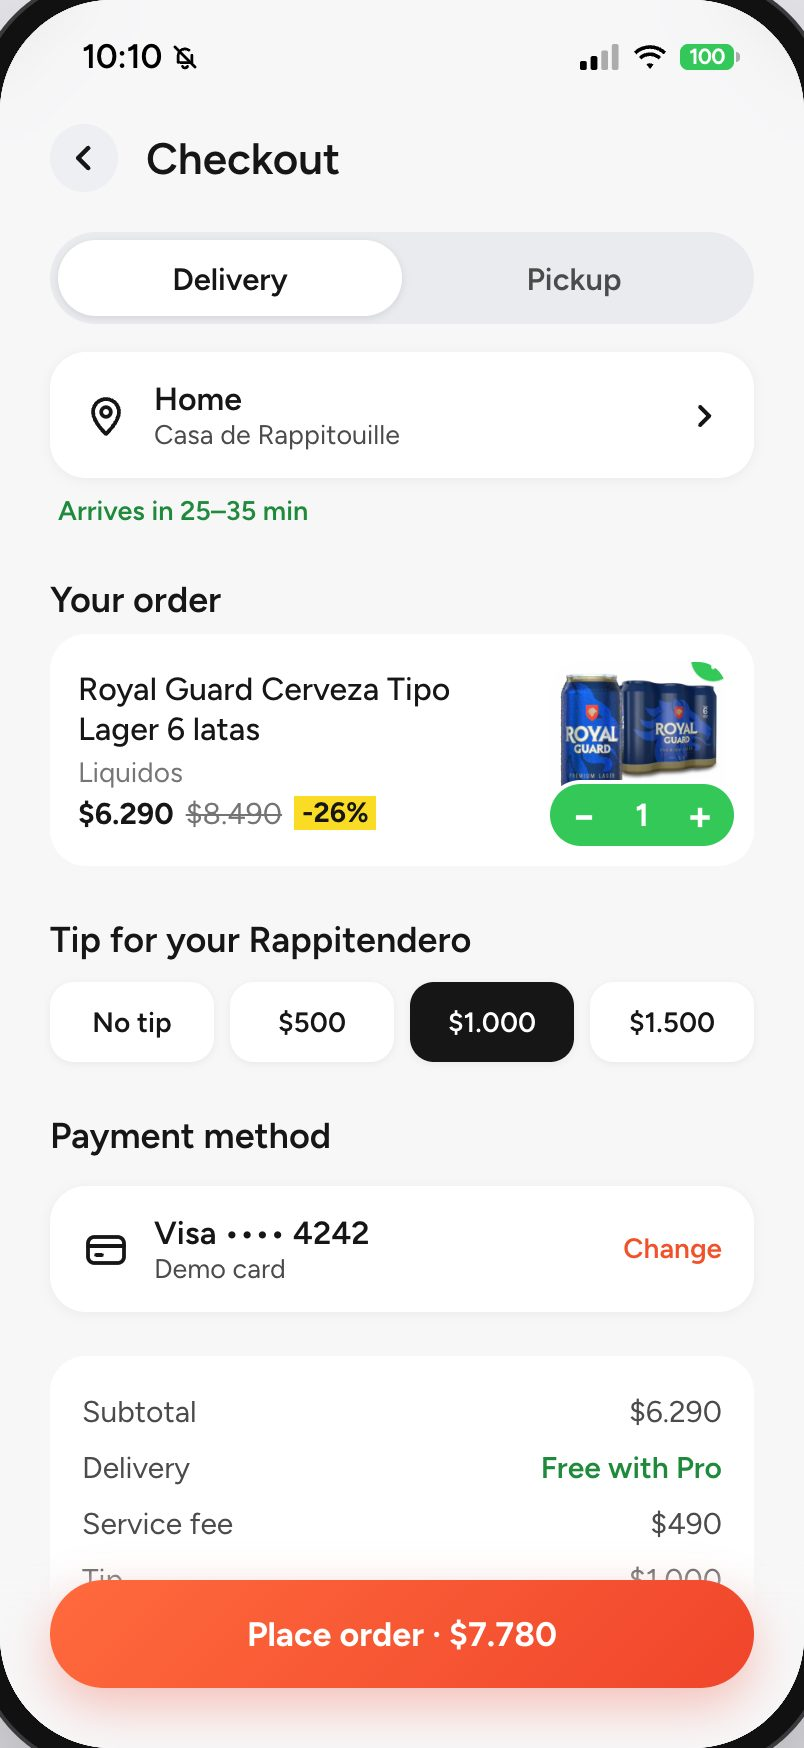
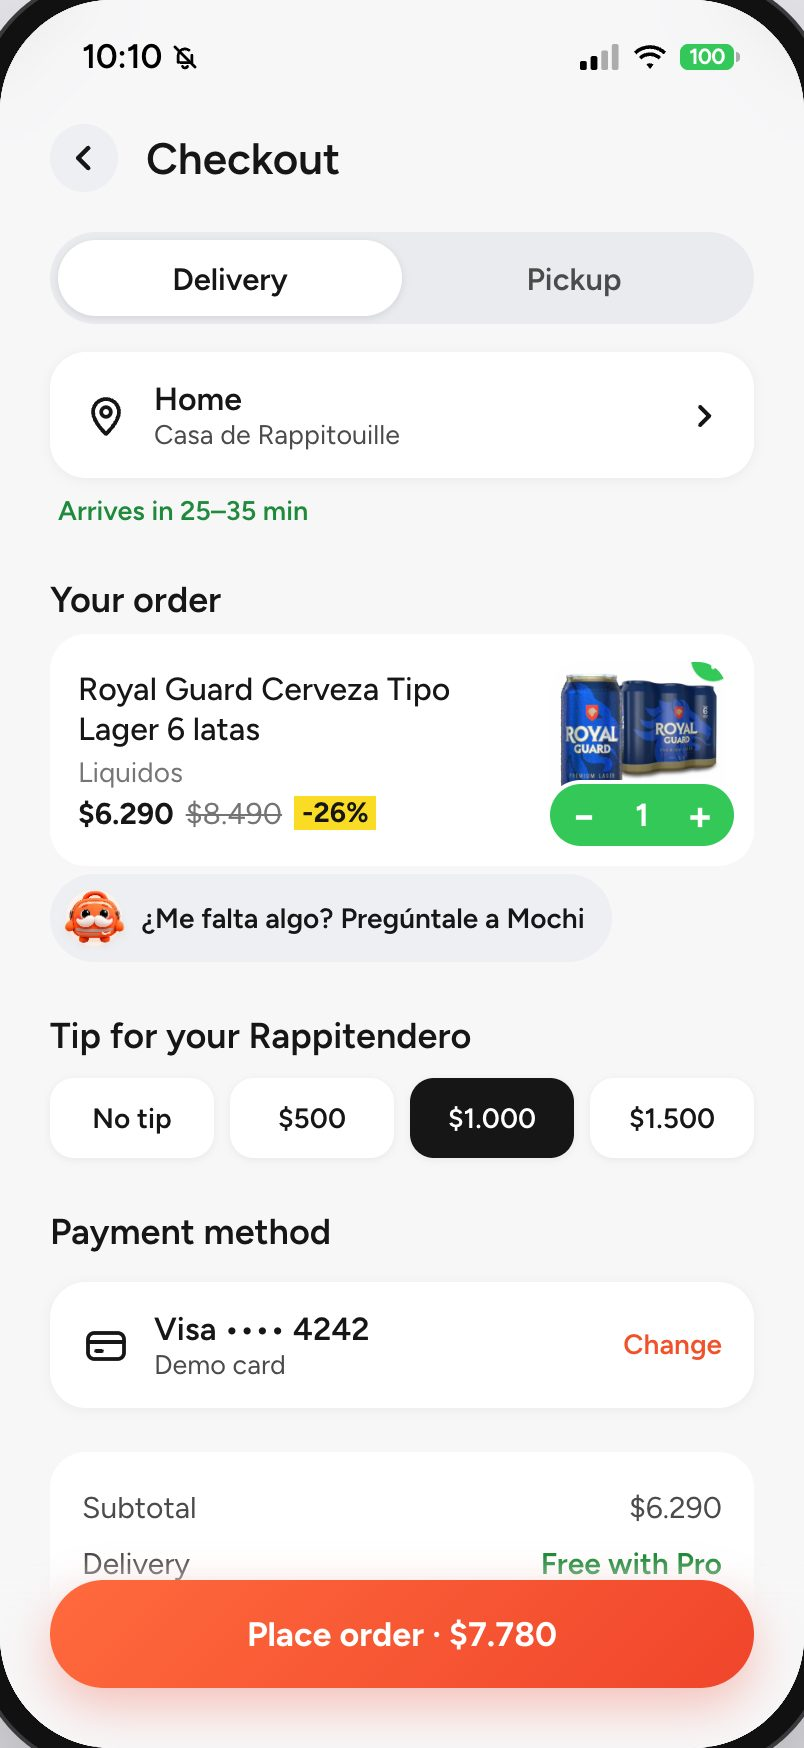
feat: «¿Me falta algo?» en el checkout: Mochi sugiere una cosa de otra vertical, solo si se pide

diff --git a/prototipo-app/src/screens/checkout/CheckoutSuggestion.jsx b/prototipo-app/src/screens/checkout/CheckoutSuggestion.jsx
@@ -1,0 +1,106 @@
+import { useState } from 'react'
+import { conceptOf } from '../../api/orders'
+import { firstShowing } from '../../api/useRemoteForYou'
+import { NEVER_SUGGESTED, TAGS, productTags } from '../../assistant/tags'
+import Mascot from '../../components/assistant/Mascot'
+import { useAddToCart } from '../../hooks/useAddToCart'
+import { lineKey, useCart } from '../../state/CartContext'
+import { useDemo } from '../../state/DemoContext'
+import { useEvents } from '../../state/EventsContext'
+import { useProfile } from '../../state/ProfileContext'
+import { discoveryFor } from '../home/live/script'
+
+/**
+ * Lo que combina con el carro, de otra vertical: el primer tema de una línea que tenga complemento (como la Home al
+ * volver) y su primer producto que no esté ya en el carro. Nada sensible (NEVER_SUGGESTED, y discoveryFor lo cuida).
+ */
+export function checkoutSuggestion(items) {
+  const inCart = new Set(items.map(({ product }) => lineKey(product)))
+  for (const { product } of items) {
+    for (const tag of productTags(product)) {
+      if (!TAGS[tag] || NEVER_SUGGESTED.has(tag)) continue
+      const found = discoveryFor({ tag, vertical: product.vertical })
+      const pick = found?.items.find((item) => item.kind === 'product' && !inCart.has(lineKey(item.product)))
+      if (pick)
+        return {
+          from: { label: TAGS[tag].label, emoji: TAGS[tag].emoji },
+          to: { label: found.label, emoji: found.emoji, vertical: found.vertical, verticalName: found.verticalName },
+          product: pick.product,
+        }
+    }
+  }
+  return null
+}
+
+/**
+ * «¿Me falta algo?» en el checkout (prototipo final): solo si la persona lo pide, Mochi sugiere UNA cosa de otra
+ * vertical, con su razón, «Agregar» y «Deshacer». Nada aparece por su cuenta.
+ */
+export default function CheckoutSuggestion() {
+  const demo = useDemo()
+  const cart = useCart()
+  const profile = useProfile()
+  const events = useEvents()
+  const { add, remove } = useAddToCart()
+  const [picked, setPicked] = useState(null) // la sugerencia pedida: queda fija aunque cambie el carro
+  const [added, setAdded] = useState(null)
+
+  if (!demo?.isFinal) return null
+  if (!picked) {
+    if (!checkoutSuggestion(cart.items)) return null
+    const ask = () => {
+      const suggestion = checkoutSuggestion(cart.items)
+      setPicked(suggestion)
+      const { product } = suggestion
+      const concept = conceptOf(product)
+      if (firstShowing({ concept, vertical: product.vertical, origin: 'checkout', generation: profile.resets }))
+        events.track('suggestion_shown', { concept_id: concept, vertical: product.vertical, payload: { origen: 'checkout' } })
+    }
+    return (
+      <button type="button" className="checkout-ask tap" onClick={ask}>
+        <Mascot size={28} badge />
+        ¿Me falta algo? Pregúntale a Mochi
+      </button>
+    )
+  }
+
+  const { from, to, product } = picked
+  return (
+    <section className="checkout-suggestion" aria-label="Sugerencia de Mochi">
+      <Mascot size={40} badge mood="wave" />
+      <div className="checkout-suggestion-body">
+        <p className="checkout-suggestion-reason">
+          Llevas {from.emoji} {from.label} → {to.emoji} {to.label}
+        </p>
+        <p className="checkout-suggestion-product">
+          {product.name} · {product.price} · {to.verticalName}
+          {product.ageRestricted && <span className="product-age"> +18</span>}
+        </p>
+        {added ? (
+          <button
+            type="button"
+            className="checkout-suggestion-action tap"
+            onClick={() => {
+              remove(added)
+              setAdded(null)
+            }}
+          >
+            Deshacer
+          </button>
+        ) : (
+          <button
+            type="button"
+            className="checkout-suggestion-action is-primary tap"
+            onClick={() => {
+              const item = { ...product, fromSuggestion: true, suggestionOrigin: 'checkout' }
+              add(item)
+              setAdded(item)
+            }}
+          >
+            Agregar
+          </button>
+        )}
+      </div>
+    </section>
+  )
+}

diff --git a/prototipo-app/src/screens/checkout/CheckoutSuggestion.test.jsx b/prototipo-app/src/screens/checkout/CheckoutSuggestion.test.jsx
@@ -1,0 +1,100 @@
+import { useEffect } from 'react'
+import { act, cleanup, fireEvent, render, screen } from '@testing-library/react'
+import { afterEach, beforeEach, describe, expect, test, vi } from 'vitest'
+import { productTags } from '../../assistant/tags'
+import { ALL_PRODUCTS } from '../../data/catalog'
+import { CartProvider, useCart } from '../../state/CartContext'
+import { DemoProvider } from '../../state/DemoContext'
+import { ProfileProvider } from '../../state/ProfileContext'
+import CheckoutSuggestion, { checkoutSuggestion } from './CheckoutSuggestion'
+
+const events = vi.hoisted(() => ({ track: vi.fn(), flush: async () => {}, clear: () => {}, settled: async () => {} }))
+vi.mock('../../state/EventsContext', async (importOriginal) => ({ ...(await importOriginal()), useEvents: () => events }))
+
+const BEER = ALL_PRODUCTS.find((product) => product.vertical === 'liquor' && productTags(product).includes('cerveza'))
+const PHARMACY = ALL_PRODUCTS.find((product) => productTags(product).includes('farmacia'))
+
+const probe = {}
+function Probe() {
+  const cart = useCart()
+  useEffect(() => {
+    probe.cart = cart
+  })
+  return null
+}
+const renderCheckout = (products = [BEER]) => {
+  const view = render(
+    <DemoProvider>
+      <ProfileProvider>
+        <CartProvider>
+          <Probe />
+          <CheckoutSuggestion />
+        </CartProvider>
+      </ProfileProvider>
+    </DemoProvider>,
+  )
+  act(() => products.forEach((product) => probe.cart.add(product)))
+  return view
+}
+const ask = () => fireEvent.click(screen.getByRole('button', { name: '¿Me falta algo? Pregúntale a Mochi' }))
+const shownAtCheckout = () =>
+  events.track.mock.calls.filter(([type, fields]) => type === 'suggestion_shown' && fields.payload?.origen === 'checkout')
+
+beforeEach(() => localStorage.setItem('rappi-proto-demo-mode', 'final'))
+afterEach(() => {
+  cleanup()
+  localStorage.clear()
+})
+
+describe('«¿Me falta algo?» en el checkout (solo si se pide)', () => {
+  // Primero: lo mostrado se recuerda lo que dura la pestaña (este archivo).
+  test('pedirla registra suggestion_shown con origen checkout, una sola vez', () => {
+    renderCheckout()
+    ask()
+    expect(shownAtCheckout()).toHaveLength(1)
+    cleanup()
+    renderCheckout()
+    ask()
+    expect(shownAtCheckout()).toHaveLength(1)
+  })
+
+  test('al principio solo está el botón; al tocarlo sugiere algo de otra vertical que combina, con la razón', () => {
+    renderCheckout()
+    expect(document.querySelector('.checkout-suggestion')).toBeNull()
+    ask()
+    const card = document.querySelector('.checkout-suggestion')
+    expect(card.querySelector('.checkout-suggestion-reason').textContent).toMatch(/^Llevas 🍺 Cerveza → \S+ \S/)
+    expect(card.querySelector('.mochi')).toBeTruthy()
+    expect(checkoutSuggestion([{ product: BEER, qty: 1 }]).product.vertical).not.toBe('liquor')
+  })
+
+  test('agregarla la suma al carro con «Deshacer», que la quita', () => {
+    renderCheckout()
+    ask()
+    fireEvent.click(screen.getByRole('button', { name: 'Agregar' }))
+    expect(probe.cart.count).toBe(2)
+    fireEvent.click(screen.getByRole('button', { name: 'Deshacer' }))
+    expect(probe.cart.count).toBe(1)
+  })
+
+  test('nunca sugiere algo que ya está en el carro', () => {
+    const first = checkoutSuggestion([{ product: BEER, qty: 1 }]).product
+    const next = checkoutSuggestion([
+      { product: BEER, qty: 1 },
+      { product: first, qty: 1 },
+    ])
+    expect(next?.product.id).not.toBe(first.id)
+  })
+
+  test('con solo productos de farmacia no sugiere nada (ni ofrece el botón)', () => {
+    expect(checkoutSuggestion([{ product: PHARMACY, qty: 1 }])).toBeNull()
+    renderCheckout([PHARMACY])
+    expect(screen.queryByRole('button', { name: '¿Me falta algo? Pregúntale a Mochi' })).toBeNull()
+  })
+
+  test('en «Rappi hoy» no aparece', () => {
+    localStorage.setItem('rappi-proto-demo-mode', 'actual')
+    renderCheckout()
+    expect(screen.queryByRole('button', { name: '¿Me falta algo? Pregúntale a Mochi' })).toBeNull()
+  })
+})

diff --git a/prototipo-app/src/screens/checkout/checkout.css b/prototipo-app/src/screens/checkout/checkout.css
@@ -199,3 +199,53 @@
   font-weight: 700;
   box-shadow: 0 10px 24px rgba(240, 69, 43, 0.3);
 }
+
+/* «¿Me falta algo?» (prototipo final): solo si se pide, Mochi sugiere una cosa de otra vertical */
+.checkout-ask {
+  display: flex;
+  align-items: center;
+  gap: 10px;
+  margin: 4px 0 8px;
+  padding: 8px 14px 8px 8px;
+  border-radius: 99px;
+  background: var(--chip);
+  color: var(--ink);
+  font-size: 14px;
+  font-weight: 600;
+}
+
+.checkout-suggestion {
+  display: flex;
+  align-items: flex-start;
+  gap: 12px;
+  margin: 4px 0 8px;
+  padding: 12px 14px;
+  border-radius: 16px;
+  background: #fff4ec;
+}
+
+.checkout-suggestion-body p {
+  margin: 0 0 4px;
+  font-size: 14px;
+  line-height: 19px;
+}
+
+.checkout-suggestion-reason {
+  color: var(--bigotes-orange);
+  font-weight: 700;
+}
+
+.checkout-suggestion-action {
+  margin-top: 6px;
+  padding: 7px 14px;
+  border-radius: 99px;
+  background: var(--chip);
+  color: var(--ink);
+  font-size: 13px;
+  font-weight: 700;
+}
+
+.checkout-suggestion-action.is-primary {
+  background: var(--ink);
+  color: var(--surface);
+}

diff --git a/prototipo-app/src/screens/checkout/CheckoutScreen.jsx b/prototipo-app/src/screens/checkout/CheckoutScreen.jsx
@@ -9,6 +9,7 @@ import { CardIcon, PinIcon } from '../../components/LineIcons'
 import { useAddress } from '../../state/AddressContext'
 import { sessionId, useEvents, userId } from '../../state/EventsContext'
 import { formatPrice, lineKey, useCart } from '../../state/CartContext'
+import CheckoutSuggestion from './CheckoutSuggestion'
 import { useOrders } from '../../state/OrdersContext'
 import { DEFAULT_TIP, TIPS, priceBreakdown } from './pricing'
 import './checkout.css'
@@ -115,6 +116,7 @@ export default function CheckoutScreen({ back, push }) {
             <ProductRow key={lineKey(product)} product={product} showStore />
           ))}
         </ul>
+        <CheckoutSuggestion />
 
         {!pickup && (
           <>
